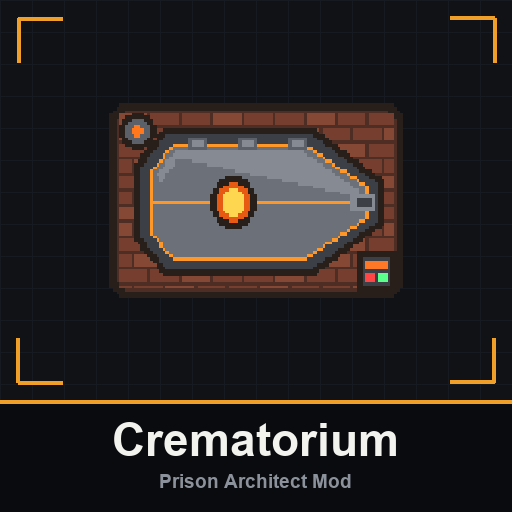
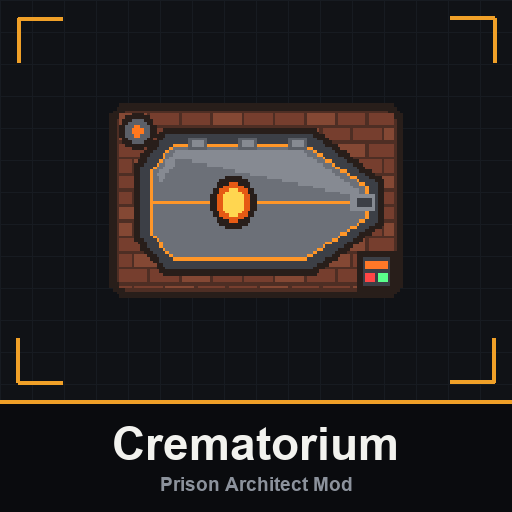
Set the card's name on one line whatever its length

Changed region(s): [[0.2188, 0.8125, 0.7812, 0.9688]]

diff --git a/tools/card.py b/tools/card.py
@@ -85,18 +85,22 @@ def face(size):
     return ImageFont.load_default(size)
 
 
-def text(label, size, colour, widest):
-    """A line of text, set smaller if it would run wider than widest."""
+def fitting(label, size, widest):
+    """The face to set a line in: smaller if it would run wider than widest."""
     probe = ImageDraw.Draw(Image.new("L", (1, 1)))
     while True:
         font = face(size)
-        left, top, right, bottom = probe.textbbox((0, 0), label, font=font)
+        left, _, right, _ = probe.textbbox((0, 0), label, font=font)
         if right - left <= widest or size <= 12:
-            break
+            return font
         size -= 2
-    line = Image.new("RGBA", (right - left + 4, bottom - top + 4), (0, 0, 0, 0))
-    ImageDraw.Draw(line).text((2 - left, 2 - top), label, font=font, fill=colour)
-    return line
+
+
+def line(draw, label, font, colour, middle):
+    """Sets a line so its capitals are centred on middle, whatever its size
+    and whether or not it has letters that hang below the line."""
+    _, top, _, bottom = font.getbbox("H", anchor="ls")
+    draw.text((SIZE // 2, middle + (bottom - top) // 2), label, font=font, fill=colour, anchor="ms")
 
 
 def brackets(draw):
@@ -123,10 +127,9 @@ def frame(art, name):
     brackets(draw)
     draw.rectangle([0, BAND_TOP, SIZE, SIZE], fill=BAND)
     draw.rectangle([0, BAND_TOP, SIZE, BAND_TOP + LINE - 1], fill=ACCENT)
-    title = text(name, TITLE_SIZE, TITLE, SIZE - 56)
-    card.alpha_composite(title, ((SIZE - title.width) // 2, BAND_TOP + 20))
-    sub = text(GAME, SUBTITLE_SIZE, SUBTITLE, SIZE - 56)
-    card.alpha_composite(sub, ((SIZE - sub.width) // 2, SIZE - 40))
+    draw = ImageDraw.Draw(card)
+    line(draw, name, fitting(name, TITLE_SIZE, SIZE - 56), TITLE, BAND_TOP + 44)
+    line(draw, GAME, fitting(GAME, SUBTITLE_SIZE, SIZE - 56), SUBTITLE, SIZE - 28)
     return card.convert("RGB")
 
 
